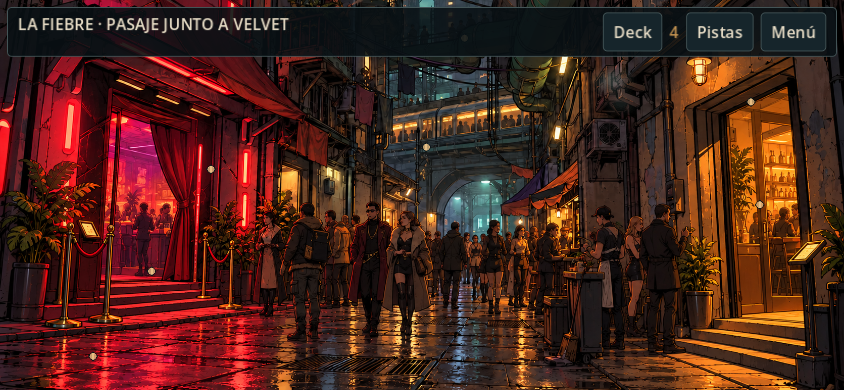
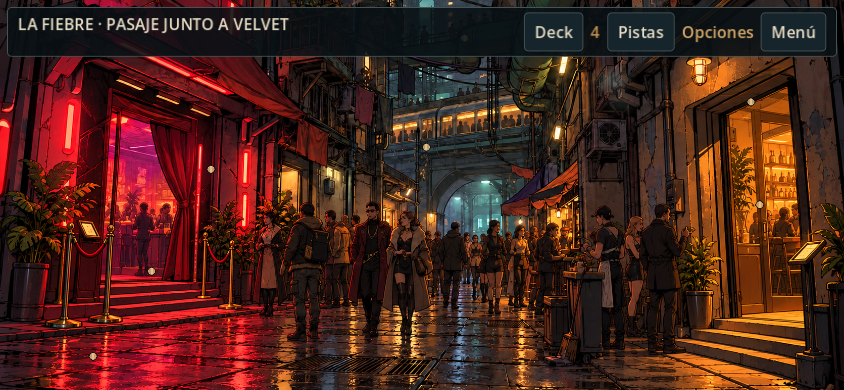
fix: abrir opciones ambientales desde la exploración

Changed region(s): [[0.6161, 0.0308, 0.8934, 0.1538]]

diff --git a/docs/superpowers/plans/2026-10-24-ambiente-dinamico-piloto.md b/docs/superpowers/plans/2026-10-24-ambiente-dinamico-piloto.md
@@ -36,11 +36,11 @@
 
 **Interfaces:** `AmbientFiebre.set_motion_enabled(enabled: bool) -> void`; `elapsed: float`; dibuja dentro de su propio rectángulo con coordenadas normalizadas.
 
-- [ ] **Step 1:** Escribir prueba que instancia el control, comprueba que `elapsed` avanza con movimiento y queda fijo al desactivarlo, y que el estado sin movimiento oculta los efectos.
-- [ ] **Step 2:** Ejecutar `godot --headless --path game --script tests/ambient_fiebre.gd` y comprobar el fallo inicial.
-- [ ] **Step 3:** Implementar capas vectoriales específicas de la composición existente: brillo del neón y reflejo unidos por la misma intensidad; vapor de la unidad visible en la pared derecha; bruma suave dentro del arco lejano. Limitar alpha y variar ritmos sin destellos repentinos. El código de coordenadas es la fuente editable de estas capas; documentar esa procedencia.
-- [ ] **Step 4:** Repetir prueba y comprobar 0 fallos.
-- [ ] **Step 5:** Commit de efecto y prueba.
+- [x] **Step 1:** Escribir prueba que instancia el control, comprueba que `elapsed` avanza con movimiento y queda fijo al desactivarlo, y que el estado sin movimiento oculta los efectos.
+- [x] **Step 2:** Ejecutar `godot --headless --path game --script tests/ambient_fiebre.gd` y comprobar el fallo inicial.
+- [x] **Step 3:** Implementar capas vectoriales específicas de la composición existente: brillo del neón y reflejo unidos por la misma intensidad; vapor de la unidad visible en la pared derecha; bruma suave dentro del arco lejano. Limitar alpha y variar ritmos sin destellos repentinos. El código de coordenadas es la fuente editable de estas capas; documentar esa procedencia.
+- [x] **Step 4:** Repetir prueba y comprobar 0 fallos.
+- [x] **Step 5:** Commit de efecto y prueba.
 
 ### Task 2: Vista y ajuste inmediato
 
@@ -51,11 +51,11 @@
 
 **Interfaces:** `Viewpoint.set_ambient_motion(enabled: bool) -> void`; `Viewpoint.ambient: Control` o `null`.
 
-- [ ] **Step 1:** Ampliar la prueba: sólo `fiebre_calle` recibe efectos; éstos son hijos de `image`, quedan bajo los botones y siguen exactamente `image.size` tras cambiar tamaño. Reentrada no duplica nodos; activar el ajuste desde Opciones modifica la vista abierta y mantiene los hotspots pulsables.
-- [ ] **Step 2:** Ejecutarla y comprobar el fallo.
-- [ ] **Step 3:** Añadir el control al mostrar `fiebre_multitud_v2`, liberar el anterior al cambiar de vista y aplicar `not State.settings.reduced_motion`; conectar el CheckButton actual y renombrar su etiqueta a «Reducir movimiento».
-- [ ] **Step 4:** Repetir la prueba aislada y la suite principal headless.
-- [ ] **Step 5:** Commit de integración.
+- [x] **Step 1:** Ampliar la prueba: sólo `fiebre_calle` recibe efectos; éstos son hijos de `image`, quedan bajo los botones y siguen exactamente `image.size` tras cambiar tamaño. Reentrada no duplica nodos; activar el ajuste desde Opciones modifica la vista abierta y mantiene los hotspots pulsables.
+- [x] **Step 2:** Ejecutarla y comprobar el fallo.
+- [x] **Step 3:** Añadir el control al mostrar `fiebre_multitud_v2`, liberar el anterior al cambiar de vista y aplicar `not State.settings.reduced_motion`; conectar el CheckButton actual y renombrar su etiqueta a «Reducir movimiento».
+- [x] **Step 4:** Repetir la prueba aislada y la suite principal headless.
+- [x] **Step 5:** Commit de integración.
 
 ### Task 3: Render, Web y continuidad
 
@@ -63,7 +63,7 @@
 - Modify: `docs/ART_DIRECTION.md`, `docs/VALIDACION.md`, `task.md`, `proceso/ESTADO_DEL_PROYECTO.md`
 - Test: capturas nativas y Web en carpeta regenerable; `game/tests/preservation.py`.
 
-- [ ] **Step 1:** Capturar dos momentos del pasaje a 1280×720 y 844×390, con movimiento activo y reducido; comprobar que se aprecia el cambio sin tapar salidas o paneles.
-- [ ] **Step 2:** Importar, ejecutar suite headless y nativa, preservación y exportación Web; abrir el pasaje por HTTP y comprobar errores de página.
-- [ ] **Step 3:** Registrar resultados y límites; dejar menu/cielo y resto de vistas como siguiente lote dependiente de valoración visual.
-- [ ] **Step 4:** Revisar diff, commit y push a la rama de trabajo.
+- [x] **Step 1:** Capturar dos momentos del pasaje a 1280×720 y 844×390, con movimiento activo y reducido; comprobar que se aprecia el cambio sin tapar salidas o paneles.
+- [x] **Step 2:** Importar, ejecutar suite headless y nativa, preservación y exportación Web; abrir el pasaje por HTTP y comprobar errores de página.
+- [x] **Step 3:** Registrar resultados y límites; dejar menu/cielo y resto de vistas como siguiente lote dependiente de valoración visual.
+- [x] **Step 4:** Revisar diff, commit y push a la rama de trabajo.

diff --git a/docs/VALIDACION.md b/docs/VALIDACION.md
@@ -4,9 +4,9 @@ Actualizado el 24 de octubre de 2026. Godot 4.7.2 oficial, Mac mini M4, Compatib
 
 ## Movimiento ambiental del pasaje · 24 oct 2026
 
-El piloto aprobado se implementó sólo en `fiebre_calle`. La capa vectorial sigue las coordenadas del PNG completo y se sitúa bajo hotspots, bandas y paneles. `tests/ambient_fiebre.gd` pasó **17/17 headless** y **23/23 nativas con GPU** en la captura habitual; comprobó avance y parada del reloj, cambio inmediato de `reduced_motion`, recorte 844×390, reentrada sin duplicar efectos, ausencia en el dormitorio y clic real sobre un hotspot bajo la capa. La ejecución opcional de 48 fotogramas pasó **71/71**. [GIF real a 844×390](evidence/ambient_fiebre_844x390.gif), [activo](evidence/ambient_fiebre_activo_844x390.png) y [reducido](evidence/ambient_fiebre_reducido_844x390.png). Las capturas sin publicar de 1280×720 y 844×390, en dos momentos y con movimiento reducido, se regeneran con `ARRECIFE_AMBIENT_CAPTURE=1`; añadir `ARRECIFE_AMBIENT_CLIP=1` genera los 48 fotogramas.
+El piloto aprobado se implementó sólo en `fiebre_calle`. La capa vectorial sigue las coordenadas del PNG completo y se sitúa bajo hotspots, bandas y paneles. `tests/ambient_fiebre.gd` pasó **19/19 headless** y **25/25 nativas con GPU** en la captura habitual; comprobó avance y parada del reloj, acceso real a Opciones desde la escena, cambio inmediato de `reduced_motion`, recorte 844×390, reentrada sin duplicar efectos, ausencia en el dormitorio y clic real sobre un hotspot bajo la capa. La ejecución opcional de 48 fotogramas pasó **73/73**. [GIF real a 844×390](evidence/ambient_fiebre_844x390.gif), [activo](evidence/ambient_fiebre_activo_844x390.png) y [reducido](evidence/ambient_fiebre_reducido_844x390.png). Las capturas sin publicar de 1280×720 y 844×390, en dos momentos y con movimiento reducido, se regeneran con `ARRECIFE_AMBIENT_CAPTURE=1`; añadir `ARRECIFE_AMBIENT_CLIP=1` genera los 48 fotogramas.
 
-Importación correcta, suite principal **831/831 headless** y **905/905 nativas con GPU**, `preservation.py` correcto y exportación Web completada. En Chromium se recorrió menú → mensaje de la Jefa → contrato → cocina → pasaje, se observaron dos momentos del efecto a 1280×720 y la vista a 844×390, y se volvió desde el menú con «Reducir movimiento» activado. `agent-browser errors` no registró errores. Esto no prueba rendimiento en teléfono físico, Safari ni continuidad artística de las otras vistas. El pulso, el vapor y la bruma son discretos para conservar la lectura; el autor aún debe valorar si su intensidad resulta adecuada.
+Importación correcta, suite principal **831/831 headless** y **905/905 nativas con GPU**, `preservation.py` correcto y exportación Web completada. En Chromium se recorrió menú → mensaje de la Jefa → contrato → cocina → pasaje; el enlace tipográfico «Opciones» se abrió sobre el pasaje y «Reducir movimiento» se activó y desactivó sin cambiar de vista, a 1280×720 y 844×390. `agent-browser errors` no registró errores. Esto no prueba rendimiento en teléfono físico, Safari ni continuidad artística de las otras vistas. No se midió aún el tiempo de fotograma en Web. El pulso, el vapor y la bruma son discretos para conservar la lectura; el autor aún debe valorar si su intensidad resulta adecuada.
 
 ## Línea base al retomar el trabajo del juego · 23 oct 2026
 

diff --git a/proceso/ESTADO_DEL_PROYECTO.md b/proceso/ESTADO_DEL_PROYECTO.md
@@ -6,7 +6,7 @@ Actualizado: **24 de octubre de 2026**.
 
 El autor aprobó el [diseño de movimiento ambiental](../docs/superpowers/specs/2026-10-23-ambiente-dinamico-design.md): luces, reflejos, vapor y bruma; personajes y cámara fijos. Se implementó el primer pasaje de La Fiebre mediante una capa vectorial editable sobre el PNG existente, sin tocar retratos, originales, fondo ni canon. La opción «Reducir movimiento» detiene y oculta la capa; el menú y las otras veinte vistas siguen estáticos a la espera de la valoración visual de este piloto.
 
-**Comprobado:** `ambient_fiebre.gd` 17/17 headless, 23/23 nativas y captura animada de 48 fotogramas; suite principal 831/831 headless y 905/905 nativas; importación, preservación y exportación Web correctas. En Chromium local se alcanzó el pasaje desde un contrato nuevo, se revisó a 1280×720 y 844×390 y se activó el movimiento reducido desde Opciones; sin errores de página. [GIF y límites](../docs/VALIDACION.md). **Pendiente de aprobación del autor:** intensidad, aspecto final de estos efectos y extensión a otras vistas. Los teléfonos físicos y Safari no se han probado.
+**Comprobado:** `ambient_fiebre.gd` 19/19 headless, 25/25 nativas y 73/73 con captura animada; suite principal 831/831 headless y 905/905 nativas; importación, preservación y exportación Web correctas. En Chromium local se alcanzó el pasaje desde un contrato nuevo y se activó/desactivó el movimiento desde «Opciones» sobre la misma escena a 1280×720 y 844×390; sin errores de página. [GIF y límites](../docs/VALIDACION.md). **Pendiente de aprobación del autor:** intensidad, aspecto final de estos efectos y extensión a otras vistas. Los teléfonos físicos y Safari no se han probado.
 
 ## Prioridad vigente · juego
 

diff --git a/README.md b/README.md
@@ -6,7 +6,7 @@ Aventura narrativa **2D ilustrada, en primera persona**, en el universo de *CARG
 
 Tres pantallas de apertura (logo, autoría y orientación), menú, introducción saltable, tres habitaciones y seis vistas de cada cota: La Fiebre, El Nudo y Los Puntales. Hay exploración por clic/toque, diálogo con retratos originales, deck, mensajes, tres contratos completos, documentos, terminal, ambiente sonoro y guardado local.
 
-El pasaje de La Fiebre incorpora un primer ambiente visual animado: luz de Velvet y reflejos, vapor de la ventilación y bruma lejana. **Opciones → Reducir movimiento** detiene estos efectos. [Ver el piloto animado a 844×390](docs/evidence/ambient_fiebre_844x390.gif). El menú y las demás vistas aún no tienen capas animadas.
+El pasaje de La Fiebre incorpora un primer ambiente visual animado: luz de Velvet y reflejos, vapor de la ventilación y bruma lejana. Desde la exploración, **Opciones → Reducir movimiento** detiene estos efectos. [Ver el piloto animado a 844×390](docs/evidence/ambient_fiebre_844x390.gif). El menú y las demás vistas aún no tienen capas animadas.
 
 El arco narrativo y sus dos decisiones de cierre están implementados. El deck reúne conversaciones con la madre, la hermana, Lía, la Jefa y el enlace policial; llegan según el progreso, permiten respuestas breves y conservan lo leído. La duración objetivo de unos 30 minutos aún no se ha medido en una partida del autor. Los 21 fondos de exploración y el fondo de menú son candidatos ilustrados; la ficción nueva y el arte requieren su revisión antes de publicar la versión final. [Guía para la primera partida](docs/GUIA_PRIMERA_PARTIDA.md).
 

diff --git a/task.md b/task.md
@@ -115,7 +115,7 @@ Los pendientes de guardado y publicación Web siguen registrados al final de est
 ## Movimiento ambiental · piloto del pasaje · 24 oct 2026
 
 - [x] Autor: aprobar el [diseño](docs/superpowers/specs/2026-10-23-ambiente-dinamico-design.md) de luces, reflejos, vapor y bruma, sin animar personas ni mover la cámara.
-- [x] Implementar la capa del pasaje con coordenadas ligadas al fondo, por detrás de hotspots y paneles, y detenerla con «Reducir movimiento».
+- [x] Implementar la capa del pasaje con coordenadas ligadas al fondo, por detrás de hotspots y paneles, y detenerla con «Reducir movimiento» desde la escena.
 - [x] Comprobar reentrada, recorte a 844×390, clic sobre hotspot, capturas nativas, exportación Web y recorrido en Chromium; [resultados](docs/VALIDACION.md).
 - [ ] Autor: valorar la intensidad y el aspecto del [piloto animado](docs/evidence/ambient_fiebre_844x390.gif) antes de aplicarlo al menú y a las otras veinte vistas.
 - [ ] Extender con fuentes de luz, bruma y vapor propios de cada vista aprobada; comprobar rendimiento y lectura en teléfono físico.
